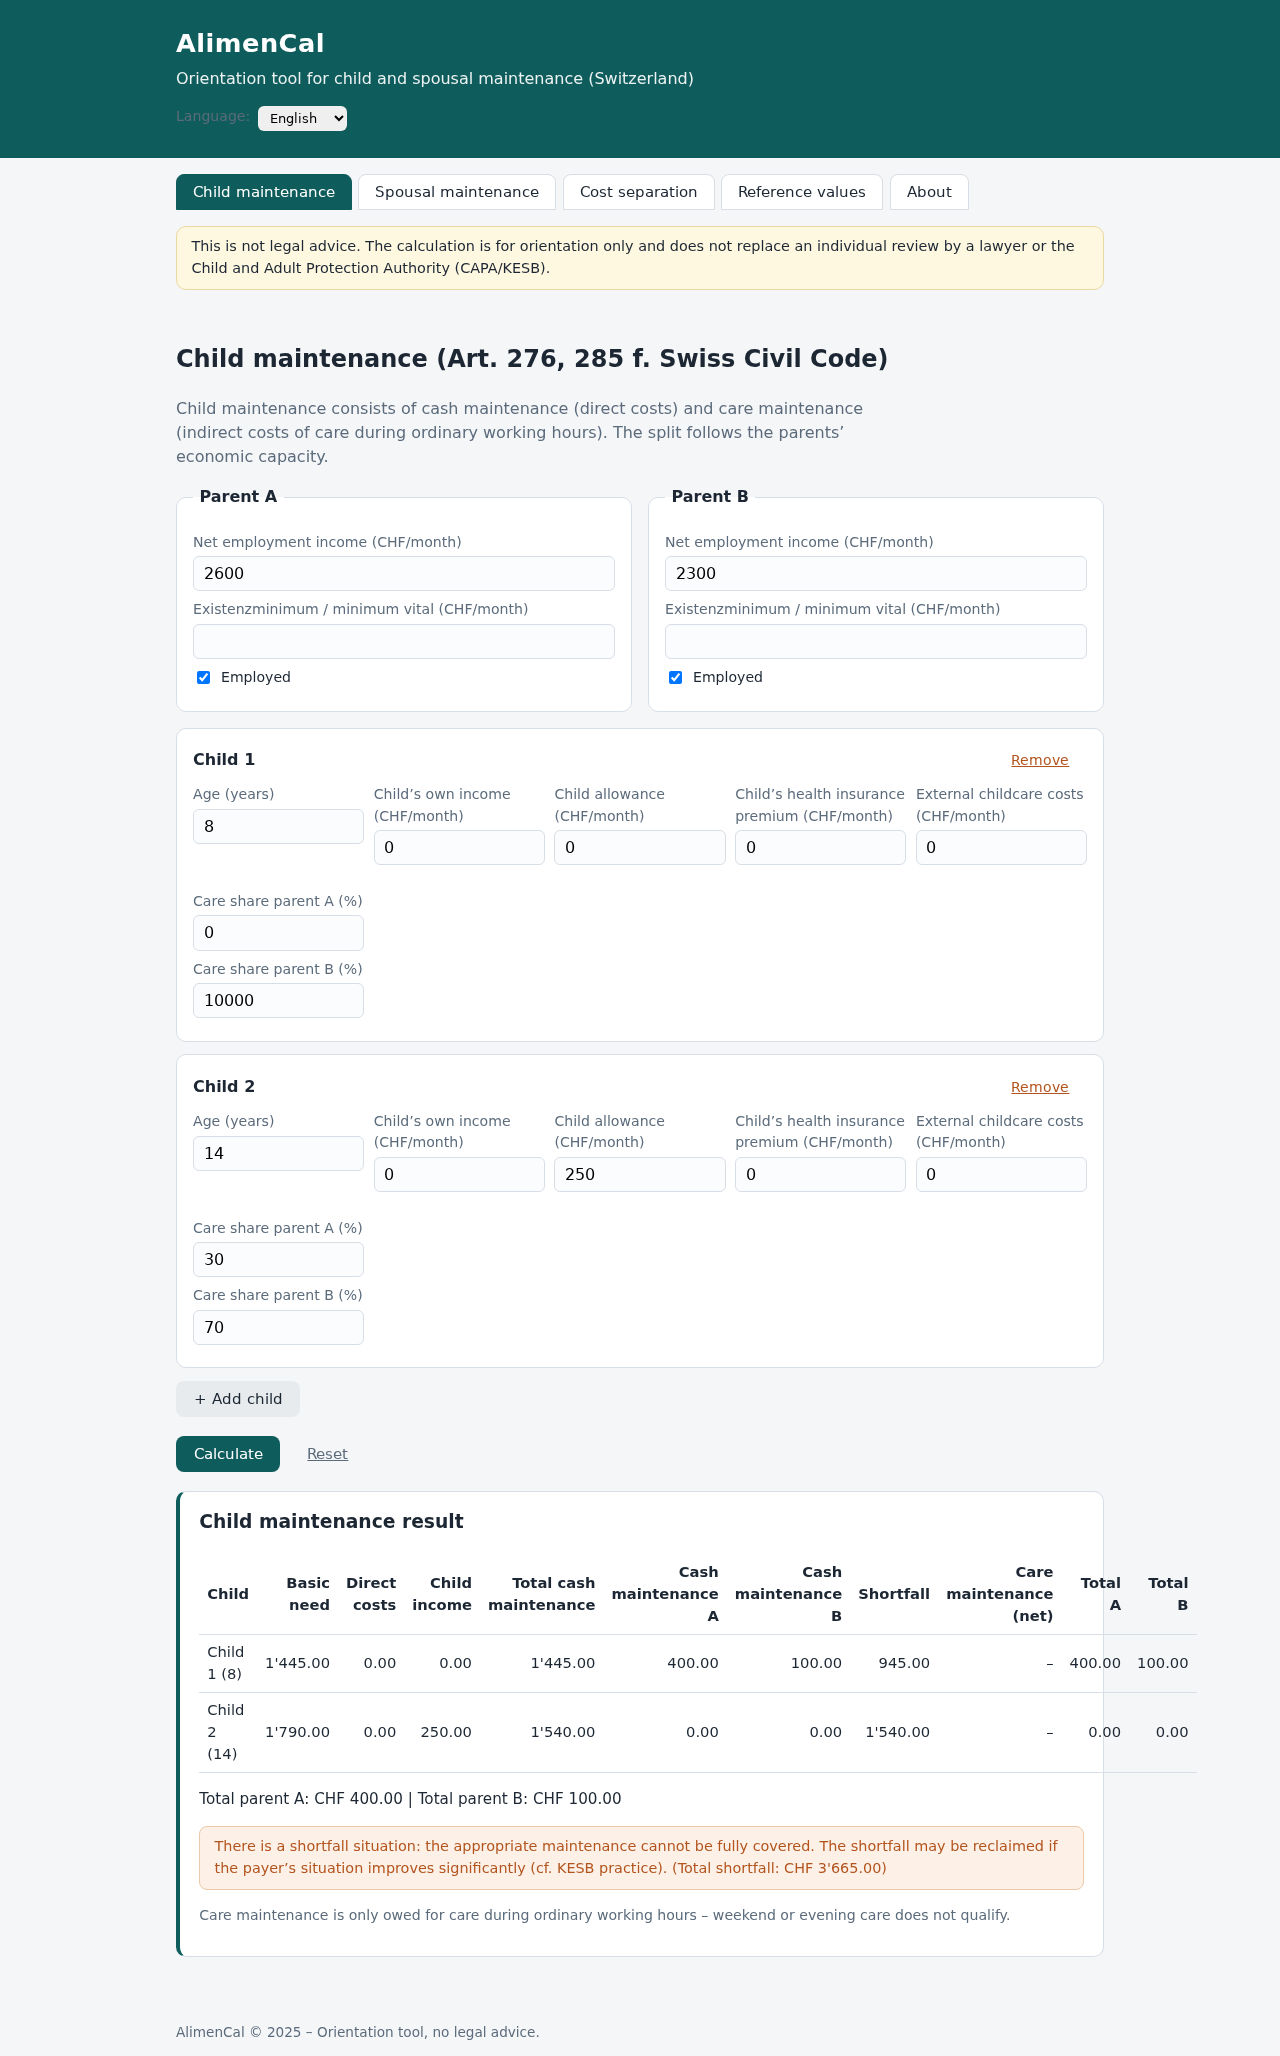
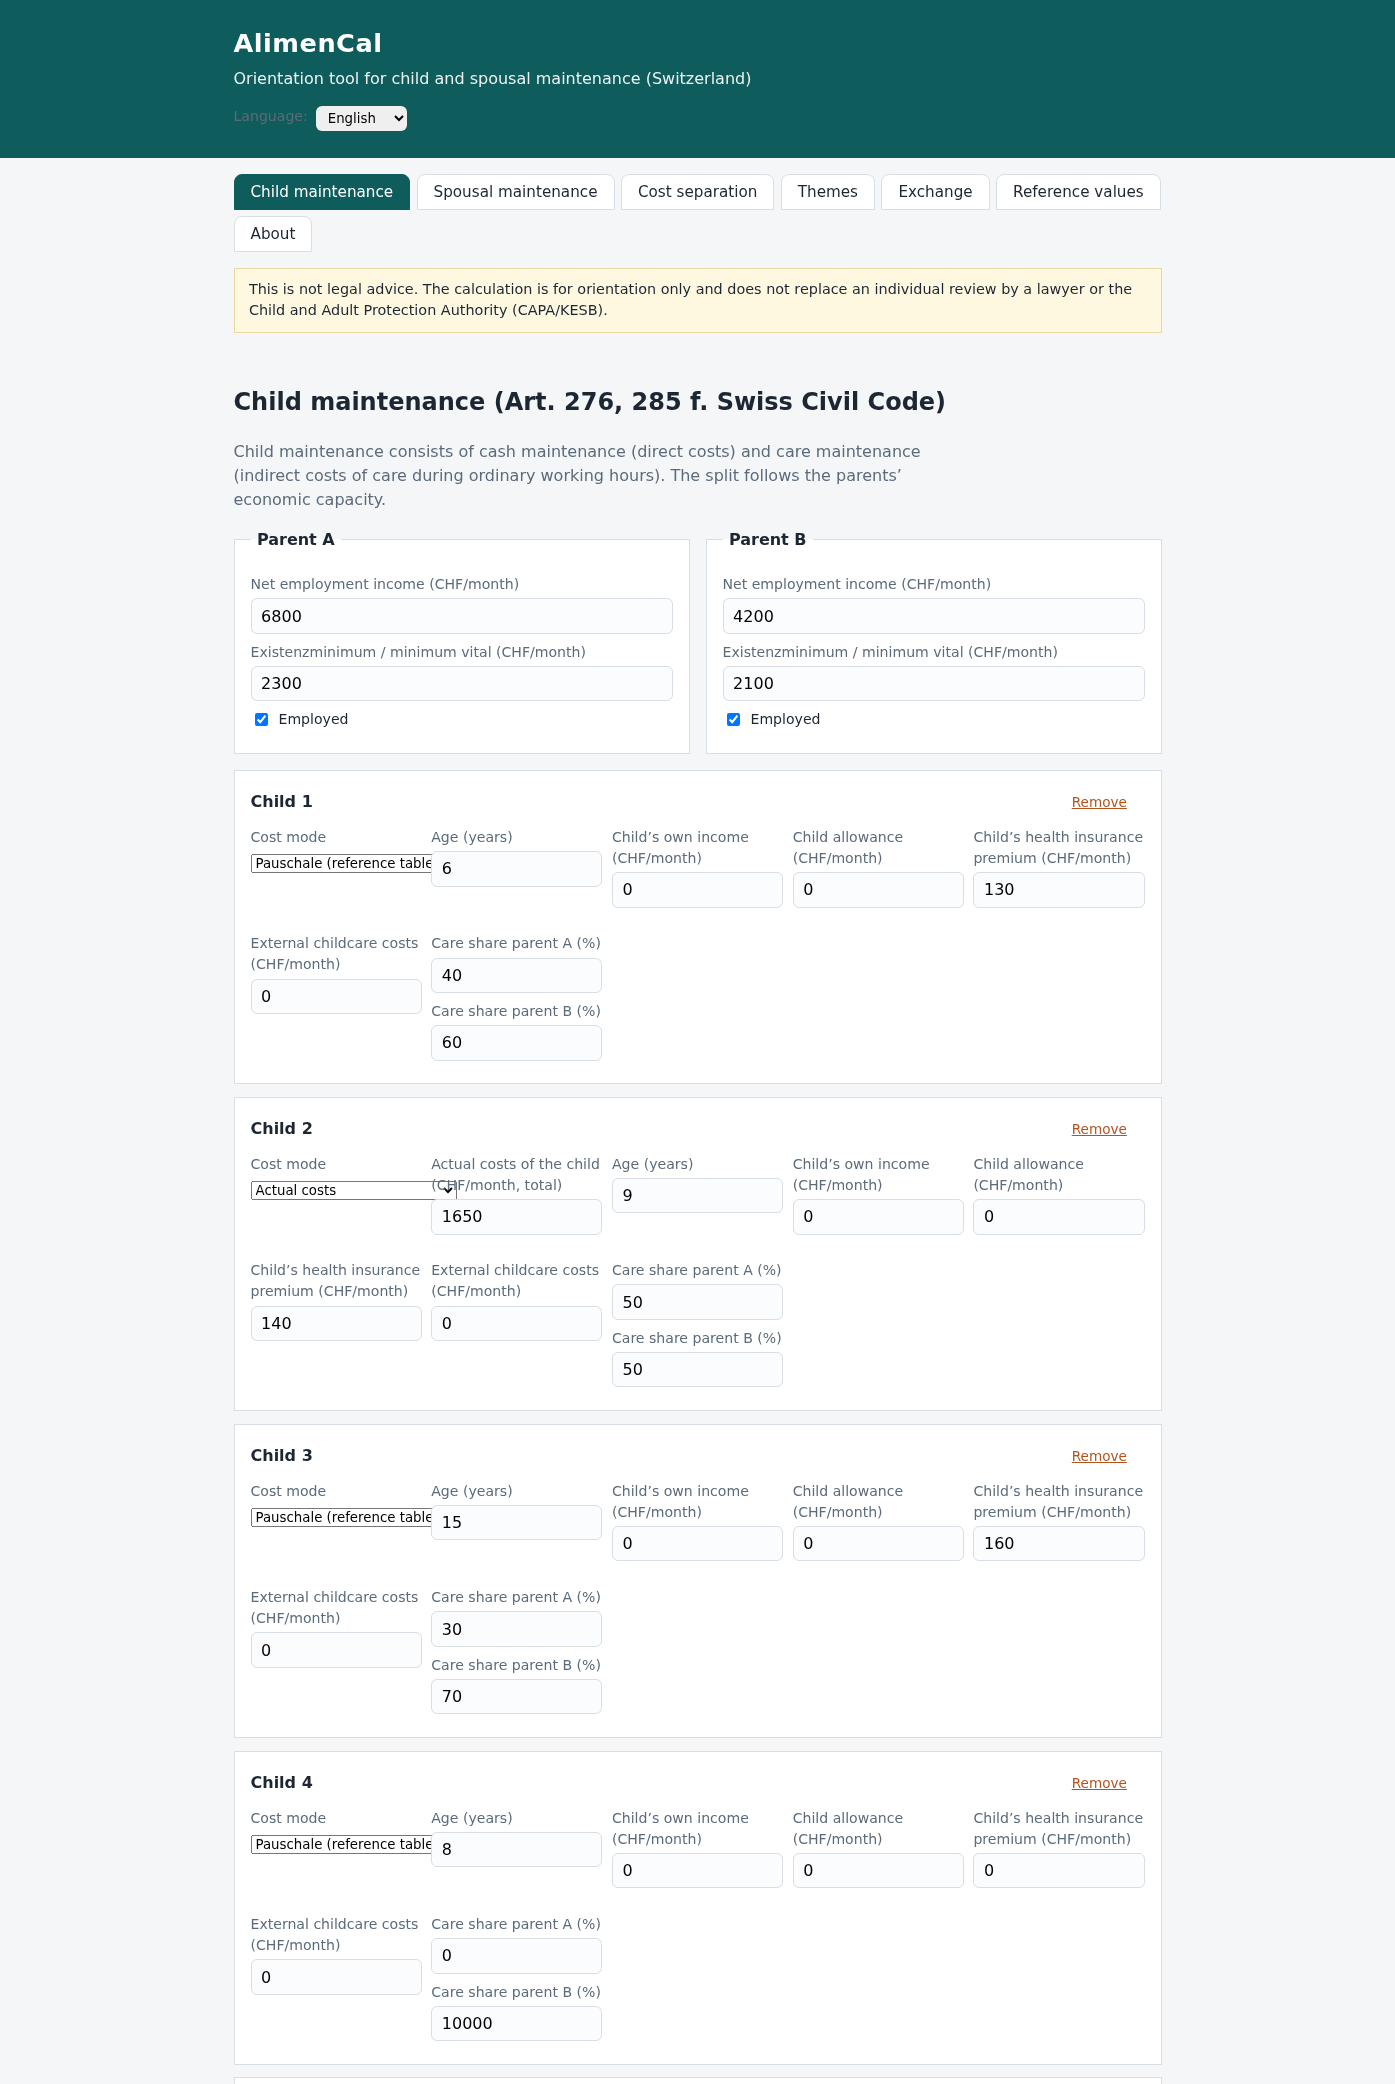
Screenshots: alle 10 Ansichten neu erstellt (inkl. neuer Aufwandsmodus pro Kind); fehlendes Tool tools/make-screenshots.js ergänzt; zwei UI-Bugs im Aufwandsmodus behoben (Moduswechsel wurde beim Re-Render verworfen; Berechnung stürzte ohne effektive Kosten ab); README-Struktur ergänzt

diff --git a/tools/make-screenshots.js b/tools/make-screenshots.js
@@ -1,0 +1,240 @@
+#!/usr/bin/env node
+/*
+ * AlimenCal – Screenshot-Generator (AGENTS.md: "Screenshot-Erstellung").
+ *
+ * Erzeugt die PNGs unter screenshots/ (eine Datei je Ansicht und Sprache,
+ * fortlaufend nummeriert, Sprache im Suffix). Nutzt Puppeteer/Headless-
+ * Chromium; Puppeteer ist ausserhalb des Repos zu installieren
+ * (npm i puppeteer, vgl. AGENTS.md).
+ *
+ * Ausführen:   node tools/make-screenshots.js [--only <nummer>] [Sprachen: --langs de,fr]
+ *
+ * Der Screenshot-Modus der App (?screenshot=1) blendet rein kosmetische
+ * Elemente (Disclaimer-Fussnote) nicht aus; dieses Script füllt zusätzlich
+ * plausible, anonymisierte Beispieldaten, damit die Screenshots
+ * aussagekräftig sind.
+ *
+ * Dateinamen: fortlaufend nummeriert, Sprache im Suffix, z. B.
+ * screenshots/01-kindesunterhalt-de.png (vgl. README-Tabelle Screenshots).
+ */
+'use strict';
+
+const path = require('path');
+const fs = require('fs');
+const os = require('os');
+const puppeteer = require('puppeteer');
+
+const ROOT = path.resolve(__dirname, '..');
+const APP_URL = 'file://' + path.join(ROOT, 'index.html');
+const OUT_DIR = path.join(ROOT, 'screenshots');
+
+const LANGS = ['de', 'fr', 'it', 'en'];
+
+const VIEWS = [
+  { n: 1, name: 'kindesunterhalt', langs: ['de'], setup: setupChildren },
+  { n: 2, name: 'ehegattenunterhalt', langs: ['de'], setup: setupSpousal },
+  { n: 3, name: 'richtwerte', langs: ['de'], setup: setupSettings },
+  { n: 4, name: 'pension-enfants', langs: ['fr'], setup: setupChildren },
+  { n: 5, name: 'informazioni', langs: ['it'], setup: setupChildren },
+  { n: 6, name: 'child-maintenance', langs: ['en'], setup: setupChildren },
+  { n: 7, name: 'kostentrennung', langs: ['de'], setup: setupCostsplit },
+  { n: 8, name: 'themes-classic', langs: ['de'], setup: setupThemesClassic },
+  { n: 9, name: 'themes-dark', langs: ['de'], setup: setupThemesDark },
+  { n: 10, name: 'austausch', langs: ['de'], setup: setupShare }
+];
+
+/* ---------- Beispieldaten (anonymisiert, keine echten Personen) ---------- */
+
+function sleep(ms) { return new Promise(r => setTimeout(r, ms)); }
+
+async function setLang(page, lang) {
+  await page.select('#lang-select', lang);
+  await sleep(150);
+}
+
+async function switchTab(page, name) {
+  await page.evaluate(n => {
+    document.querySelector('.tab[data-tab="' + n + '"]').click();
+  }, name);
+  await sleep(150);
+}
+
+async function fill(page, sel, value) {
+  await page.evaluate((s, v) => {
+    const el = document.querySelector(s);
+    if (el) {
+      el.value = v;
+      el.dispatchEvent(new Event('input', { bubbles: true }));
+      el.dispatchEvent(new Event('change', { bubbles: true }));
+    }
+  }, sel, value);
+}
+
+async function clickCalculateChildren(page) {
+  await page.evaluate(() => document.getElementById('calc-children').click());
+  await sleep(200);
+}
+
+async function setupChildren(page) {
+  await switchTab(page, 'children');
+  await fill(page, '#pa-income', '6800');
+  await fill(page, '#pa-em', '2300');
+  await fill(page, '#pb-income', '4200');
+  await fill(page, '#pb-em', '2100');
+  await sleep(100);
+  const vals = [
+    { age: 6, kk: '130', careA: '40', careB: '60', mode: 'pauschal' },
+    { age: 9, kk: '140', careA: '50', careB: '50', mode: 'effective', eff: '1650' },
+    { age: 15, kk: '160', careA: '30', careB: '70', mode: 'pauschal' }
+  ];
+  for (let i = 0; i < vals.length; i++) {
+    await page.evaluate(() => document.getElementById('add-child').click());
+    await sleep(100);
+  }
+  for (let i = 0; i < vals.length; i++) {
+    const v = vals[i];
+    await page.evaluate((idx, mode) => {
+      const sel = document.querySelectorAll('#children-list .child-row')[idx].querySelector('.f-mode');
+      if (sel.value !== mode) {
+        sel.value = mode;
+        sel.dispatchEvent(new Event('change', { bubbles: true }));
+      }
+    }, i, v.mode);
+    await sleep(150);
+    await page.evaluate((idx, age, kk, careA, careB, eff) => {
+      const row = document.querySelectorAll('#children-list .child-row')[idx];
+      const set = (el, v) => {
+        el.value = v;
+        el.dispatchEvent(new Event('input', { bubbles: true }));
+      };
+      set(row.querySelector('.f-age'), age);
+      set(row.querySelector('.f-kk'), kk);
+      set(row.querySelector('.f-shareA'), careA);
+      set(row.querySelector('.f-shareB'), careB);
+      const effEl = row.querySelector('.f-eff');
+      if (effEl && eff != null) { set(effEl, eff); }
+    }, i, String(v.age), v.kk, v.careA, v.careB, v.eff || null);
+    await sleep(50);
+  }
+  await clickCalculateChildren(page);
+}
+
+async function setupSpousal(page) {
+  await switchTab(page, 'spousal');
+  await page.evaluate(() => {
+    const cb = document.getElementById('spousal-enabled');
+    cb.checked = true;
+    cb.dispatchEvent(new Event('change', { bubbles: true }));
+  });
+  await fill(page, '#sp-app-income', '2400');
+  await fill(page, '#sp-app-standard', '4200');
+  await fill(page, '#sp-app-extra', '300');
+  await fill(page, '#sp-res-income', '7600');
+  await fill(page, '#sp-res-childpaid', '1200');
+  await page.evaluate(() => document.getElementById('calc-spousal').click());
+  await sleep(200);
+}
+
+async function setupSettings(page) {
+  await switchTab(page, 'settings');
+}
+
+async function setupCostsplit(page) {
+  await switchTab(page, 'costsplit');
+  // Anonymisierter Demo-Bankexport (keine echten Daten, vgl. AGENTS.md).
+  // Belastung/Gutschrift in separaten Spalten; Ausgaben teils 50/50,
+  // teils voll einer Partei zugewiesen.
+  const csv = [
+    'Datum;Beschreibung;Belastung;Gutschrift',
+    '2025-02-05;Miete Wohnung;1800;',
+    '2025-02-08;Lebensmittel Supermarkt;142.50;',
+    '2025-02-12;Krankenkasse Kinder;390;',
+    '2025-02-15;Kita-Rechnung;950;',
+    '2025-02-20;Lohnzahlung;;6800'
+  ].join('\n');
+  const tmp = path.join(os.tmpdir(), 'alimencal-demo-export.csv');
+  fs.writeFileSync(tmp, csv, 'utf8');
+  const input = await page.$('#costsplit-file');
+  await input.uploadFile(tmp);
+  await sleep(400);
+  await page.evaluate(() => document.getElementById('costsplit-set-all-split').click());
+  await sleep(200);
+  await page.evaluate(() => {
+    const modes = { t1: 'split', t2: 'split', t3: 'split', t4: 'partyB', t5: 'ignore' };
+    document.querySelectorAll('#costsplit-tbody tr').forEach(tr => {
+      const sel = tr.querySelector('select');
+      if (!sel) { return; }
+      // Reihenfolge entspricht der Transaktionsreihenfolge (t1..t5)
+      const idx = Array.prototype.indexOf.call(
+        tr.parentElement.querySelectorAll('tr'), tr);
+      const key = 't' + (idx + 1);
+      if (modes[key]) {
+        sel.value = modes[key];
+        sel.dispatchEvent(new Event('change', { bubbles: true }));
+      }
+    });
+  });
+  await sleep(200);
+  await page.evaluate(() => {
+    const el = document.getElementById('costsplit-owner');
+    el.value = 'A';
+    el.dispatchEvent(new Event('change', { bubbles: true }));
+  });
+  await sleep(200);
+}
+
+async function setupThemesClassic(page) {
+  await switchTab(page, 'themes');
+}
+
+async function setupThemesDark(page) {
+  await switchTab(page, 'themes');
+  await page.select('#theme-select', 'dark');
+  await sleep(200);
+}
+
+async function setupShare(page) {
+  await switchTab(page, 'share');
+}
+
+/* ---------- Hauptprogramm ---------- */
+
+async function run() {
+  const only = process.argv.includes('--only')
+    ? parseInt(process.argv[process.argv.indexOf('--only') + 1], 10)
+    : null;
+
+  fs.mkdirSync(OUT_DIR, { recursive: true });
+
+  const browser = await puppeteer.launch({
+    headless: 'new',
+    args: ['--no-sandbox', '--disable-setuid-sandbox', '--font-render-hinting=none']
+  });
+
+  try {
+    for (const view of VIEWS) {
+      if (only && view.n !== only) { continue; }
+      for (const lang of view.langs) {
+        const page = await browser.newPage();
+        await page.setViewport({ width: 1395, height: 2084, deviceScaleFactor: 1 });
+        page.on('pageerror', e => console.error('PAGE ERROR:', String(e)));
+
+        await page.goto(APP_URL + '?screenshot=1', { waitUntil: 'networkidle0' });
+        await sleep(200);
+        await setLang(page, lang);
+        await view.setup(page);
+        await sleep(300);
+
+        const num = String(view.n).padStart(2, '0');
+        const file = path.join(OUT_DIR, num + '-' + view.name + '-' + lang + '.png');
+        await page.screenshot({ path: file, fullPage: false });
+        console.log('created', path.relative(ROOT, file));
+        await page.close();
+      }
+    }
+  } finally {
+    await browser.close();
+  }
+}
+
+run().catch(err => { console.error(err); process.exit(1); });

diff --git a/js/app.js b/js/app.js
@@ -337,7 +337,8 @@
     for (var i = 0; i < rows.length; i++) {
       var row = rows[i];
       state.children[i].costMode = row.querySelector('.f-mode').value === 'effective' ? 'effective' : 'pauschal';
-      state.children[i].effectiveCosts = parseFloat(row.querySelector('.f-eff').value) || 0;
+      var effEl = row.querySelector('.f-eff');
+      state.children[i].effectiveCosts = effEl ? (parseFloat(effEl.value) || 0) : 0;
       state.children[i].age = parseInt(row.querySelector('.f-age').value, 10) || 0;
       state.children[i].ownIncome = parseFloat(row.querySelector('.f-own').value) || 0;
       state.children[i].childAllowance = parseFloat(row.querySelector('.f-allow').value) || 0;
@@ -359,7 +360,7 @@
     }
   }
 
-  function modeSelect(cls, value) {
+  function modeSelect(cls, value, idx) {
     var select = document.createElement('select');
     select.className = cls;
     [
@@ -373,6 +374,7 @@
     });
     select.value = value === 'effective' ? 'effective' : 'pauschal';
     select.addEventListener('change', function () {
+      state.children[idx].costMode = select.value === 'effective' ? 'effective' : 'pauschal';
       renderChildrenList();
       saveForm();
     });
@@ -422,7 +424,7 @@
     var grid = document.createElement('div');
     grid.className = 'child-grid';
 
-    grid.appendChild(field(t('children', 'costMode'), modeSelect('f-mode', mode)));
+    grid.appendChild(field(t('children', 'costMode'), modeSelect('f-mode', mode, idx)));
     if (mode === 'effective') {
       grid.appendChild(field(t('children', 'effectiveCosts'), inp('f-eff', child.effectiveCosts)));
     }

diff --git a/README.md b/README.md
@@ -147,6 +147,7 @@ js/i18n/{de,fr,it,en}.js  Sprachdateien
 AGENTS.md           Verbindliche Arbeitsregeln (Doku-in-Sync-Regel, Checklisten)
 docs/               Benutzerhandbuch, Berechnungslogik, Kostentrennung, Rechtliches
 screenshots/        Screenshots der App in vier Sprachen
+tools/              make-screenshots.js: Screenshot-Generator (Puppeteer, s. AGENTS.md)
 tests/              Unit-Tests (node)
 ```
 
